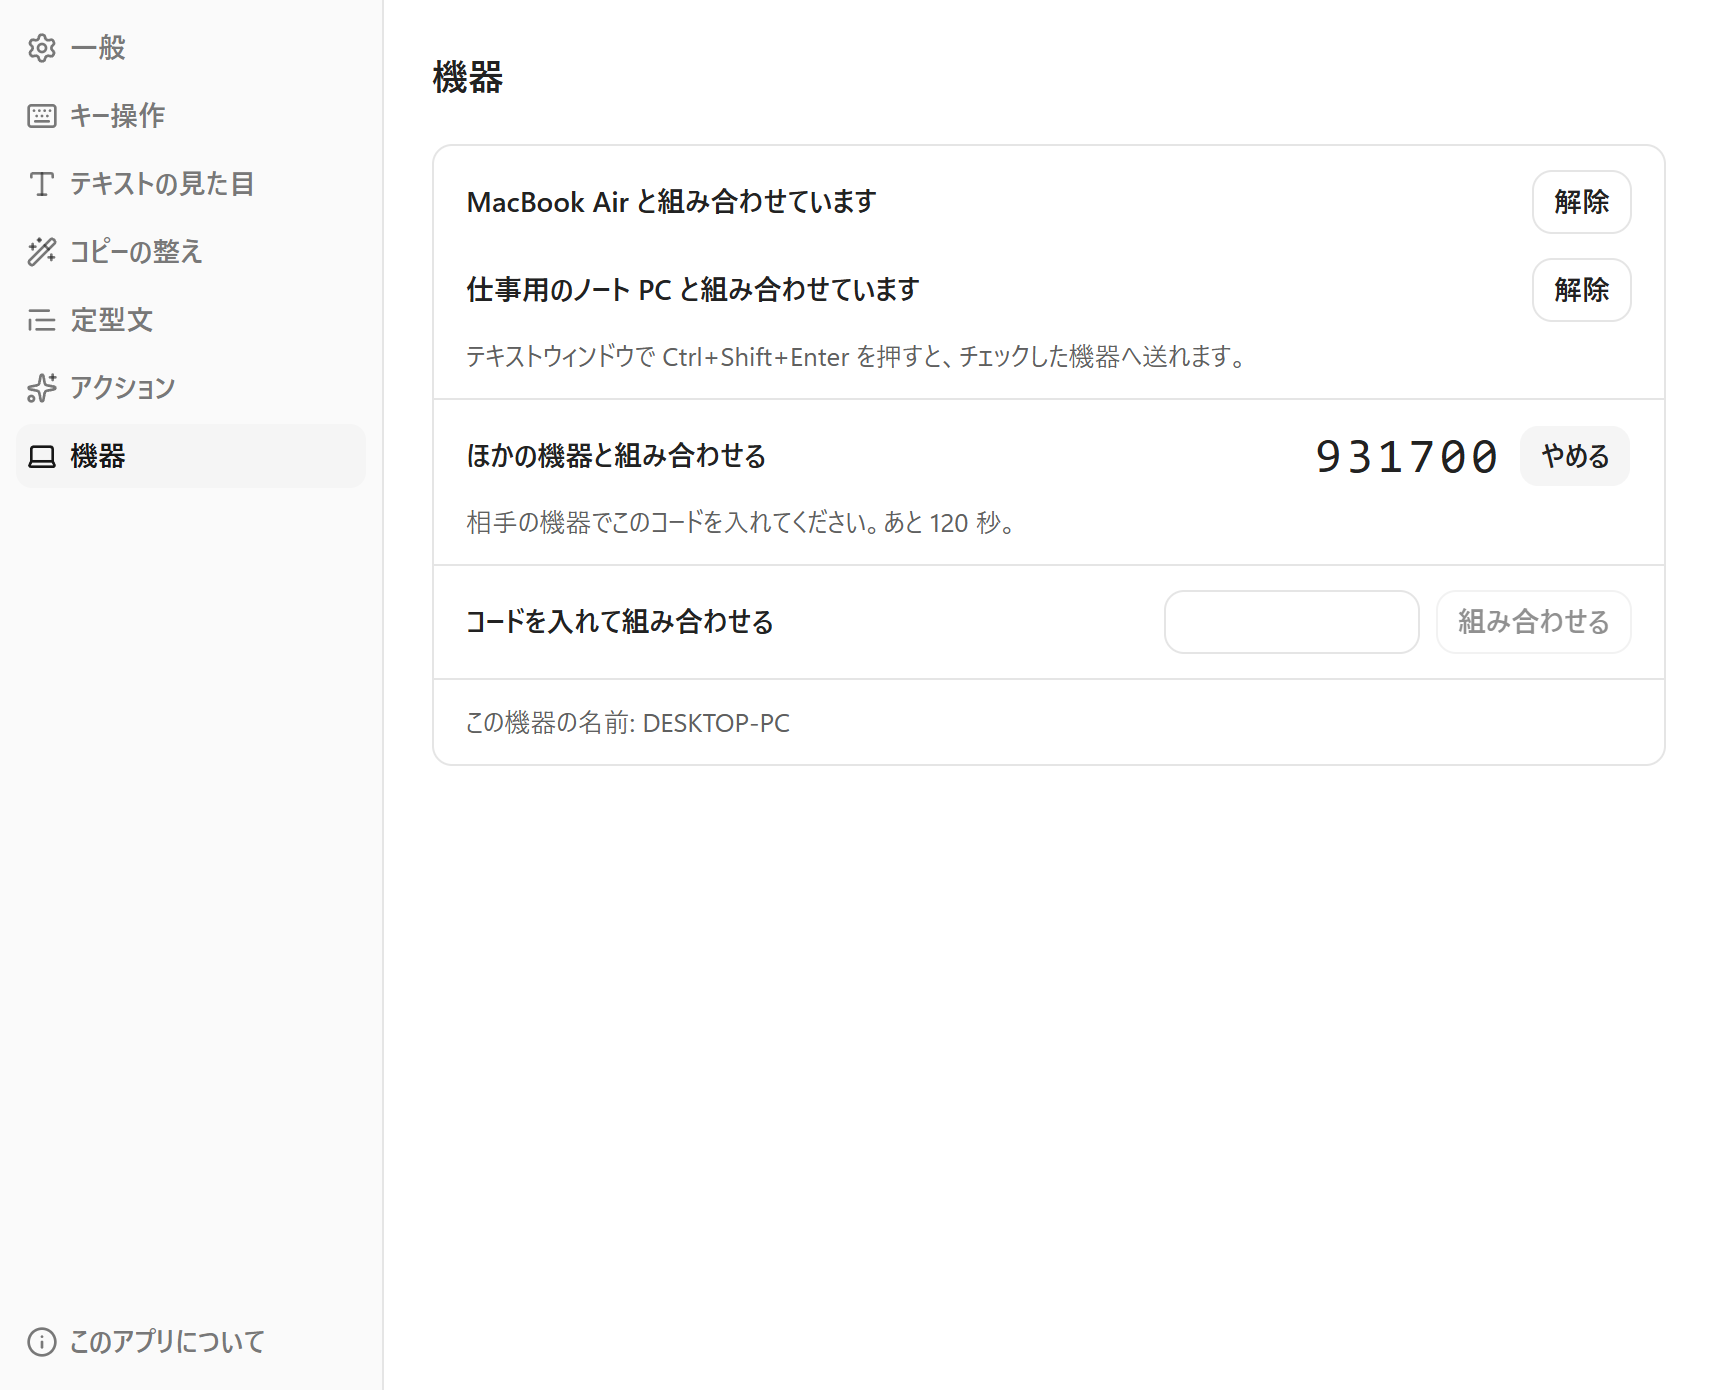
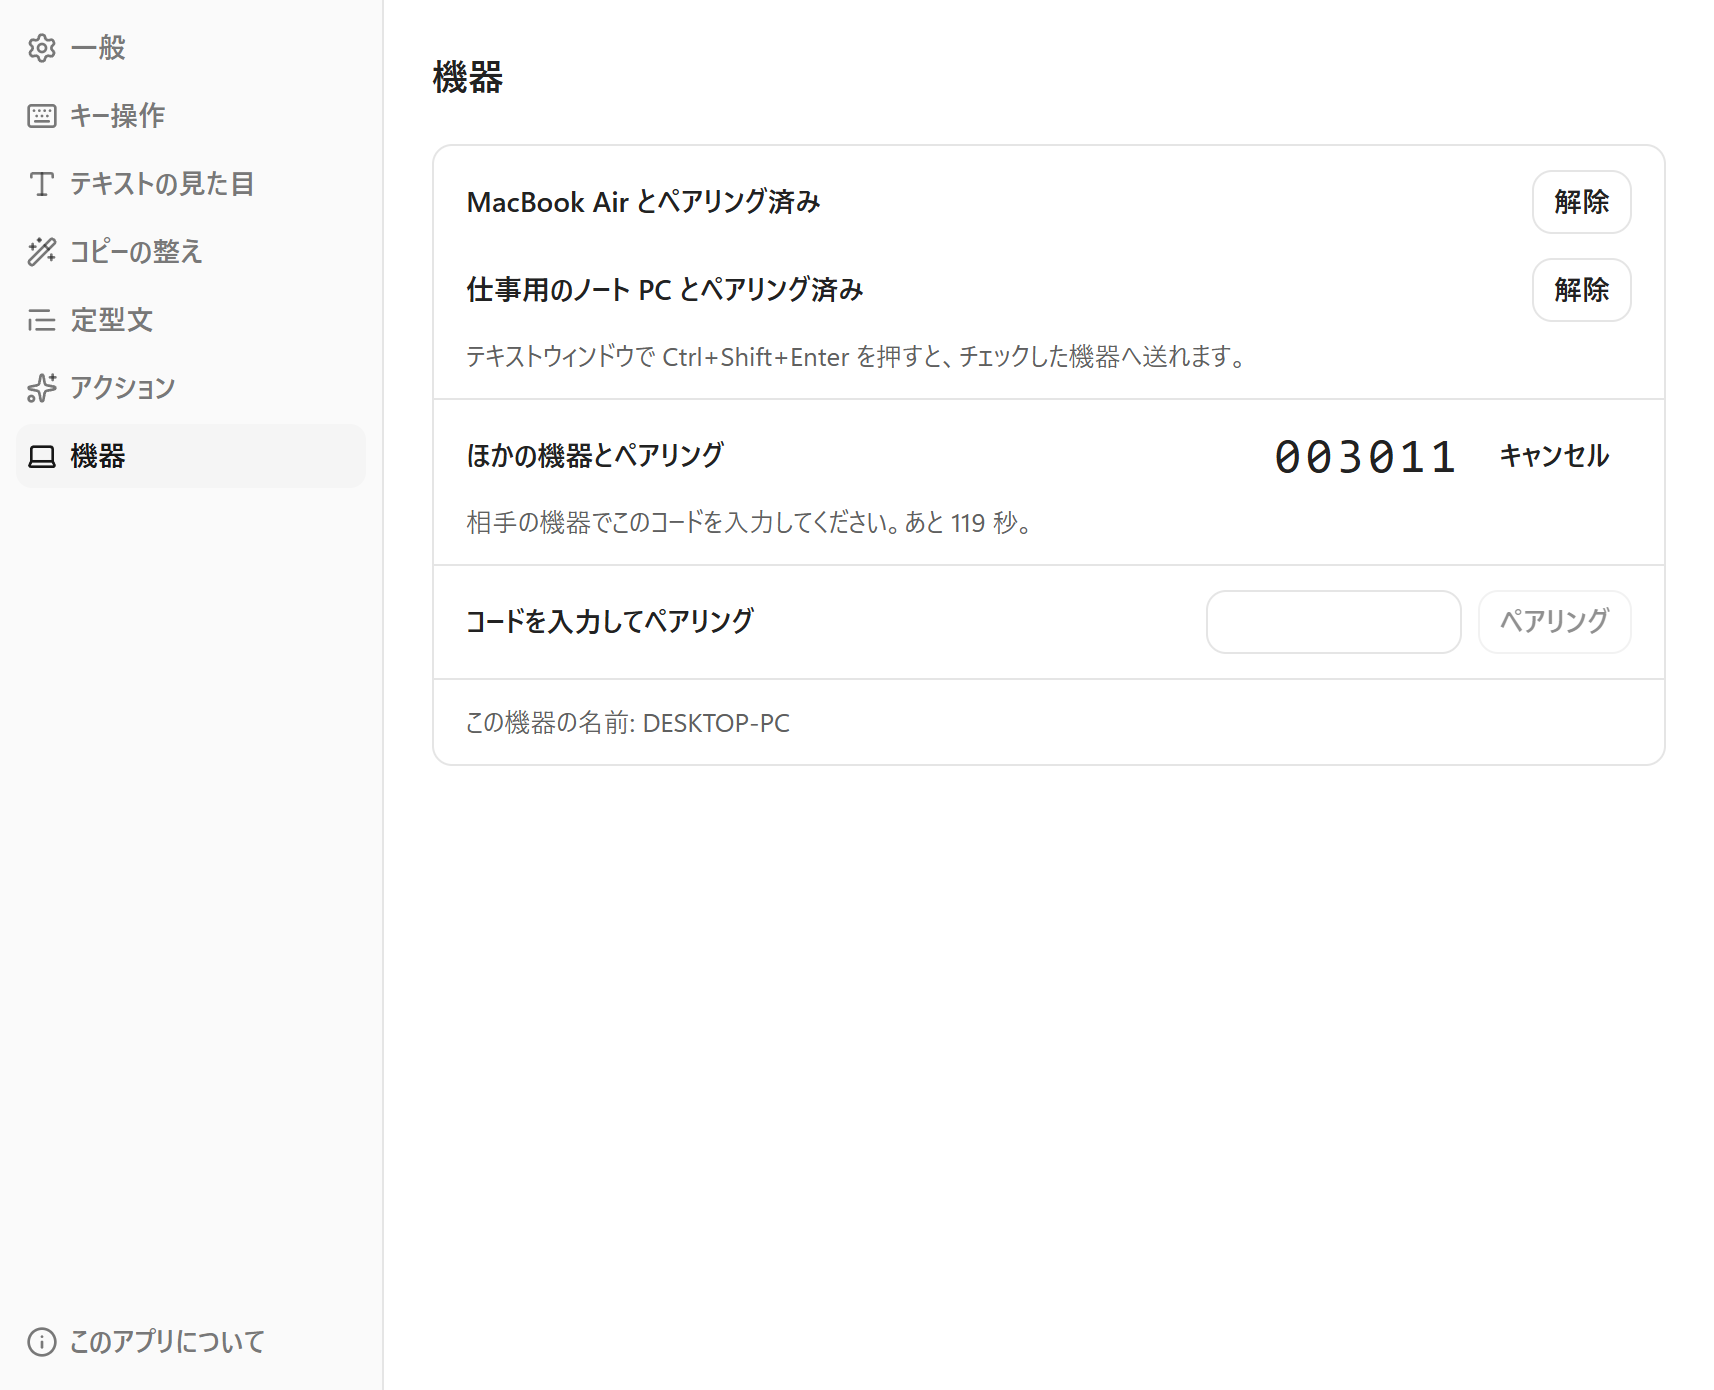
公開サイトの画像を今の画面で撮り直し、説明を合わせる (#27)
#22 でテキストウィンドウのボタンの並びと左下のフォルダーのボタンを、#23・#25 でボタンや項目の名前を変えたため、
テキストウィンドウ・定型文・機器の画像が今の画面と違っていた。前と同じ中身と大きさ (2 倍) で撮り直した。
コピーの整えとアクションは、撮り直しても同じ画像だった。

diff --git a/site/src/content/index.md b/site/src/content/index.md
@@ -8,7 +8,7 @@ lead: |
 badges: [無料, Windows / Mac（Apple シリコン）, 機器の間でテキストを送れる]
 hero:
   - src: ./images/draft.png
-    alt: テキストウィンドウ。打ち合わせの連絡の文が3行入っていて、下の列に設定の歯車、「定型文」「送る」のボタンと、コピーのボタン（Ctrl Enter）がある
+    alt: テキストウィンドウ。打ち合わせの連絡の文が3行入っていて、上の列に「定型文」「アクション」のボタンと設定の歯車、下の列に今のフォルダー（「ホーム」）のボタン、「送信」のボタンと、コピーのボタン（Ctrl Enter）がある
   - src: ./images/settings-copy.png
     alt: 設定画面の「コピーの整え」。末尾の空白文字を取り除く、クリップボードの履歴に残さない、文字を揃える（句読点・英字・数字・空白・記号・カタカナ）、置き換え辞書が並び、辞書には「ください → 下さい」など3件が入っている
 color: '#33358a'
@@ -30,7 +30,7 @@ status: coming-soon
 
 自分の Mac や Windows とは、6桁のコードでペアリングします。あとは、書いたテキストをそのまま送れます。
 
-![設定画面の「機器」。「MacBook Air」と「仕事用のノート PC」と組み合わせていて、「ほかの機器と組み合わせる」に6桁のコードと「あと 120 秒」が出ている](./images/settings-devices-code.png)
+![設定画面の「機器」。「MacBook Air」と「仕事用のノート PC」とペアリング済みで、「ほかの機器とペアリング」に6桁のコードと残りの秒数が出ている](./images/settings-devices-code.png)
 
 アクションは、設定で登録しておき、テキストウィンドウで選んで使います。最初から、AI に頼む「英訳」と、行を並べ替える「sort」のコマンドが入っています。AI に頼むアクションは、AI サービスに「Mawok」（アカウントのクレジット）か、自分の API キーで使う Gemini・Anthropic・OpenAI を選ぶと使えます。
 
